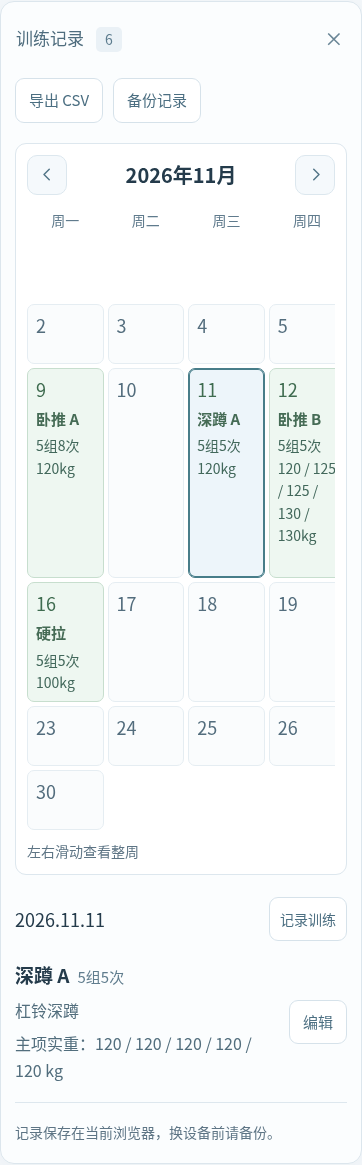
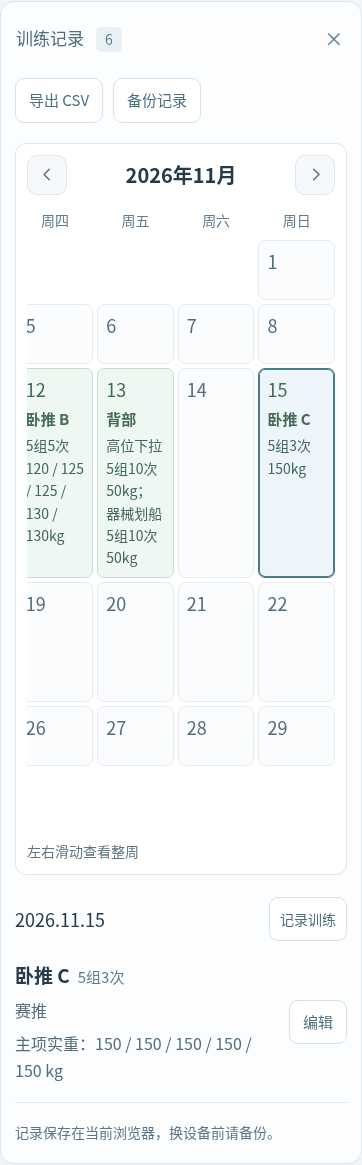
确认11月15日卧推C按计划五组150kg

diff --git a/index.html b/index.html
@@ -327,7 +327,7 @@ input:disabled,select:disabled { background: #eef4f8; color: #718b9b; }
       <div class="dialog-heading"><h2 id="workout-title">训练记录</h2><button type="button" class="icon-button" id="closeWorkout" aria-label="关闭"><svg class="icon"><use href="#i-close" /></svg></button></div>
       <article id="sessionCard"></article>
     </dialog>
[2 lines of base64/hex data omitted]
     <script>
 /* 固定训练模板。参考重量不参与实际训练记录的计算。 */
 (function (root) {
@@ -385,7 +385,7 @@ input:disabled,select:disabled { background: #eef4f8; color: #718b9b; }
     }));
   }
   function recentRecords() {
-    return [["2026-11-15", "bench-c", Array(5).fill(null)], ["2026-11-16", "deadlift", Array(5).fill(100)]].map(([date, templateId, setWeights]) => ({
+    return [["2026-11-15", "bench-c", Array(5).fill(150)], ["2026-11-16", "deadlift", Array(5).fill(100)]].map(([date, templateId, setWeights]) => ({
       id: `confirmed-${date}-${templateId}`, date, templateId, result: "done", setWeights, notes: "", triceps: "", snapshot: clone(template(templateId)),
     }));
   }
@@ -462,6 +462,11 @@ input:disabled,select:disabled { background: #eef4f8; color: #718b9b; }
       if (!state.records.some(r => r.date === record.date && r.templateId === record.templateId)) state.records.push(record);
     }
     state.confirmedRecordsNov17 = true; persist();
+  }
+  if (!state.benchCNov15WeightConfirmed) {
+    state.records = state.records.map(record => record.date === "2026-11-15" && record.templateId === "bench-c" ? { ...record, setWeights: Array(5).fill(150) } : record);
+    if (state.draft?.date === "2026-11-15" && state.draft.templateId === "bench-c") state.draft.setWeights = Array(5).fill(150);
+    state.benchCNov15WeightConfirmed = true; persist();
   }
   if (state !== saved) persist();
   let draft = null, noticeTimer;

diff --git a/项目资料/src/app.js b/项目资料/src/app.js
@@ -20,6 +20,11 @@
     }
     state.confirmedRecordsNov17 = true; persist();
   }
+  if (!state.benchCNov15WeightConfirmed) {
+    state.records = state.records.map(record => record.date === "2026-11-15" && record.templateId === "bench-c" ? { ...record, setWeights: Array(5).fill(150) } : record);
+    if (state.draft?.date === "2026-11-15" && state.draft.templateId === "bench-c") state.draft.setWeights = Array(5).fill(150);
+    state.benchCNov15WeightConfirmed = true; persist();
+  }
   if (state !== saved) persist();
   let draft = null, noticeTimer;
   let selectedDate = state.records.map(r => r.date).sort().at(-1) || P.today(), displayedMonth = selectedDate.slice(0, 7);

diff --git a/项目资料/src/training.js b/项目资料/src/training.js
@@ -54,7 +54,7 @@
     }));
   }
   function recentRecords() {
-    return [["2026-11-15", "bench-c", Array(5).fill(null)], ["2026-11-16", "deadlift", Array(5).fill(100)]].map(([date, templateId, setWeights]) => ({
+    return [["2026-11-15", "bench-c", Array(5).fill(150)], ["2026-11-16", "deadlift", Array(5).fill(100)]].map(([date, templateId, setWeights]) => ({
       id: `confirmed-${date}-${templateId}`, date, templateId, result: "done", setWeights, notes: "", triceps: "", snapshot: clone(template(templateId)),
     }));
   }

diff --git a/项目资料/docs/维护说明.md b/项目资料/docs/维护说明.md
@@ -14,4 +14,6 @@
 
 2026-11-13更新：保留v17存储键，`backRecordNov13`标记确保背部确认记录只补入一次，不覆盖已有同日背部日志。背部模板以`equalExercises`标识平级动作，第二个动作的逐组重量存入`additionalWeights.row`；旧日志沿用自身快照。CSV按动作分别导出。
 
-2026-11-17更新：保留v17存储键，`confirmedRecordsNov17`标记一次性补记11月15日卧推C（实重null）和16日硬拉（五组100kg）；已有同日同模板日志优先，刷新不重复添加。`recentRecords()`与早期`seedRecords()`分离，保证旧版迁移及11月13日背部双动作快照仍保持原有处方。当前back模板改为引体5组8次自重；高位下拉与器械划船转入硬拉辅助，各5组10次50kg。硬拉参考100kg，硬拉/深蹲A以equipmentNote在卡片和记录表标注无装、不使用腰带助力带。
+2026-11-17更新：保留v17存储键，`confirmedRecordsNov17`标记一次性补记11月15日卧推C（五组150kg）和16日硬拉（五组100kg）；已有同日同模板日志优先，刷新不重复添加。`recentRecords()`与早期`seedRecords()`分离，保证旧版迁移及11月13日背部双动作快照仍保持原有处方。当前back模板改为引体5组8次自重；高位下拉与器械划船转入硬拉辅助，各5组10次50kg。硬拉参考100kg，硬拉/深蹲A以equipmentNote在卡片和记录表标注无装、不使用腰带助力带。
+
+用户确认11月15日卧推C按计划完成；`benchCNov15WeightConfirmed`一次性将该日记录及匹配草稿补为五组150kg。后续编辑不会在刷新时被覆盖。

diff --git a/README.md b/README.md
@@ -2,7 +2,7 @@
 
 固定训练模板与个人日志。8种模板不绑定日期；训练时选择日期和模板，各组实重独立填写，可重复记录和编辑。记录展开为月历，每天直接显示主项实重，没训练的日期留空。
 
-已记入2026年11月9日卧推A、11日深蹲A、12日卧推B、13日背部、15日卧推C和16日硬拉。15日卧推C实重未提供，留空；16日硬拉五组100 kg。11日深蹲A五组均为120 kg；12日卧推B五组为120、125、125、130、130 kg。所有模板重量均为参考。
+已记入2026年11月9日卧推A、11日深蹲A、12日卧推B、13日背部、15日卧推C和16日硬拉。15日卧推C按计划五组均为150 kg；16日硬拉五组100 kg。11日深蹲A五组均为120 kg；12日卧推B五组为120、125、125、130、130 kg。所有模板重量均为参考。
 
 双击[index.html](index.html)可离线使用；[健身计划.zip](健身计划.zip)可分享。[完整模板预览](项目资料/示例/完整计划表.png)。记录保存在当前浏览器，可导出CSV和JSON；旧版数据保留。
 

diff --git a/项目资料/docs/使用说明.md b/项目资料/docs/使用说明.md
@@ -29,4 +29,4 @@
 
 2026年11月13日背部：高位下拉、器械划船均为5组10次50kg。背部两个动作分别记录逐组实重，日历、明细及导出均保留两个动作。
 
-2026年11月15日已记卧推C，实重未提供，留空；11月16日硬拉五组均记100kg。首次更新时仅补入缺失记录，不覆盖已有同日同模板记录。卧推A–D一排，引体、深蹲A、深蹲B、硬拉一排，卡片大小统一，窄屏均可横向滑动。
+2026年11月15日卧推C按计划完成5组3次150kg；11月16日硬拉五组均记100kg。首次更新时仅补入缺失记录，不覆盖已有同日同模板记录。卧推A–D一排，引体、深蹲A、深蹲B、硬拉一排，卡片大小统一，窄屏均可横向滑动。
